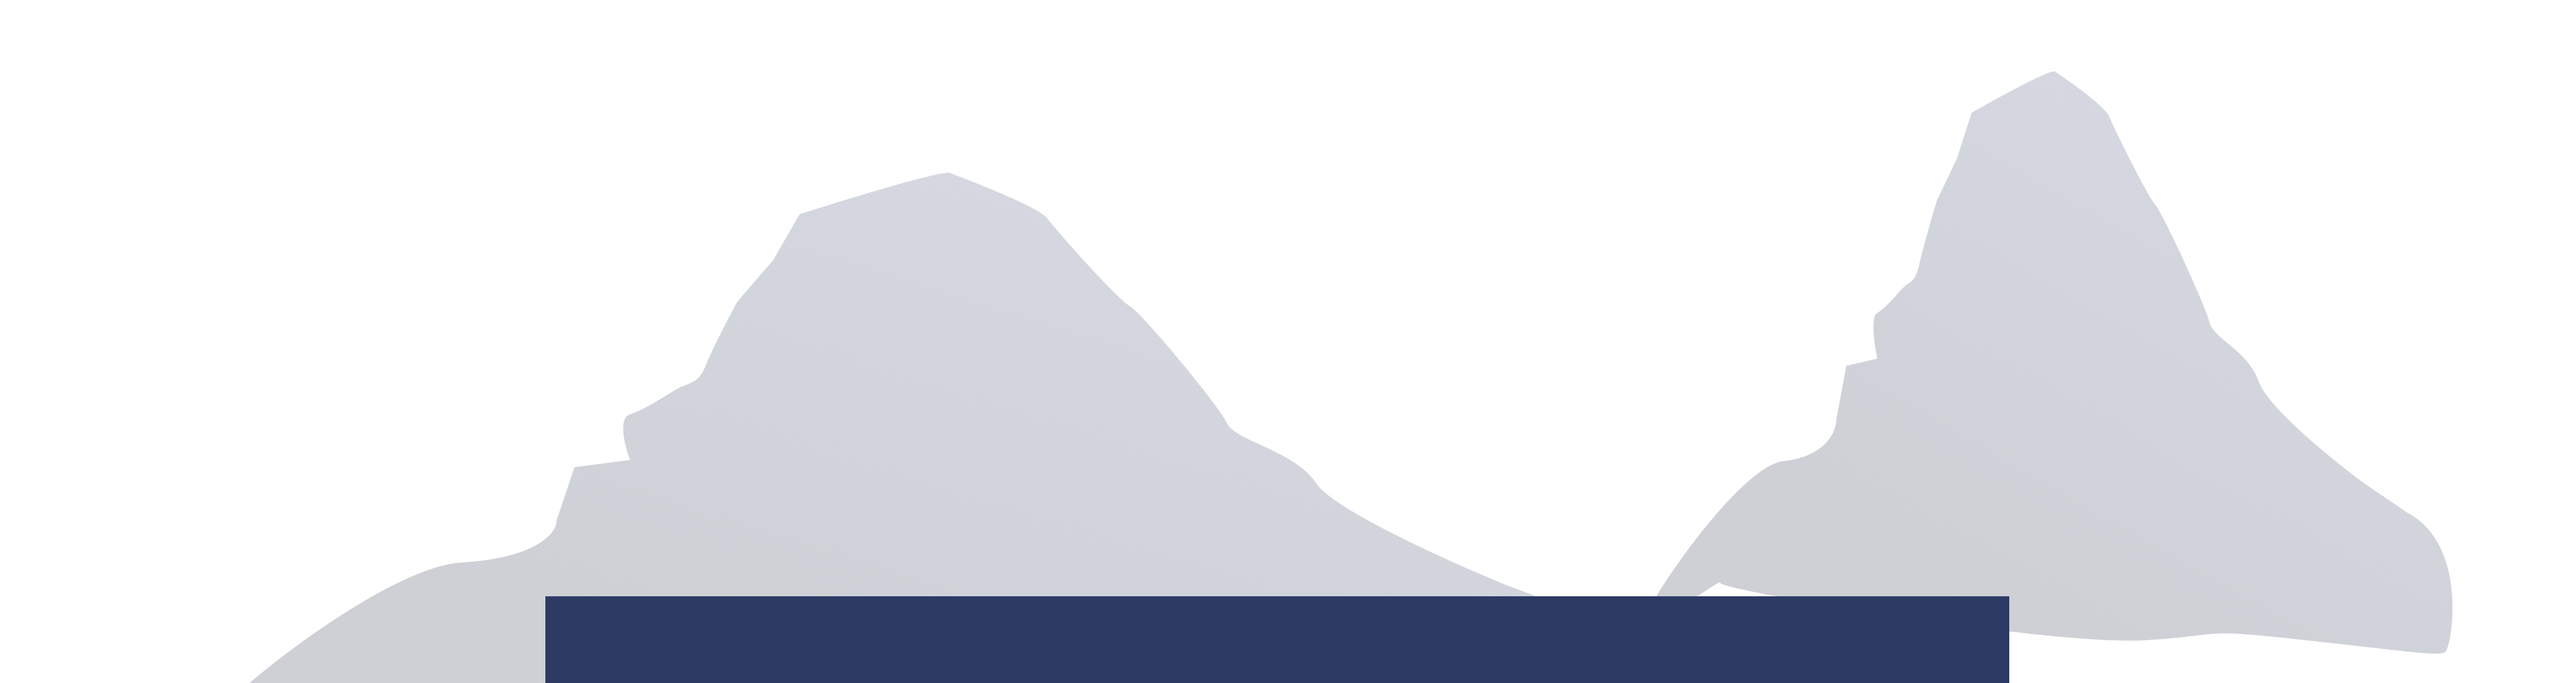
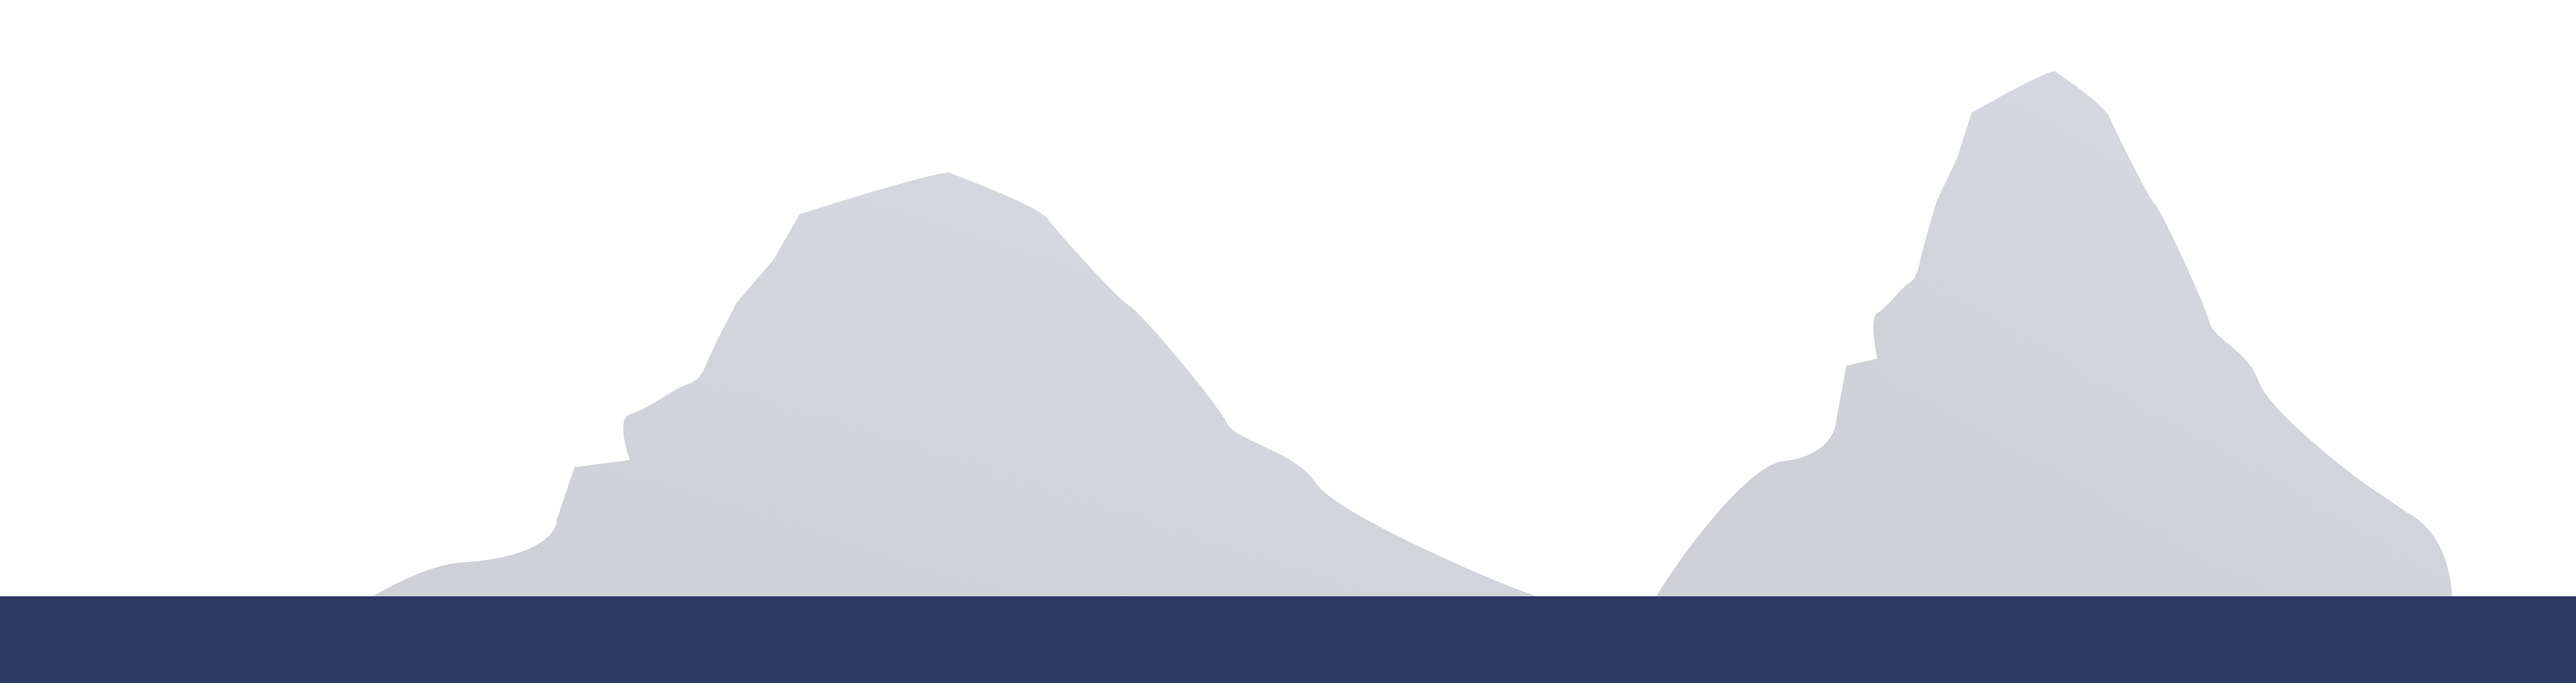
chapter 9

Changed region(s): [[0.7774, 0.875, 1.0, 1.0], [0.0, 0.875, 0.2177, 1.0], [0.653, 0.8438, 0.6841, 0.875]]

diff --git a/components/Chapter9.vue b/components/Chapter9.vue
@@ -1,114 +1,159 @@
 <template>
-    <section class="b--page-a__item b--chapter9-a" id="Scene9" ref="Scene9" v-if="chapter">
-        <div class="b--ss-a"> 
-            <div class="b--ss-a__ft-items">
-                <img class="b--ss-a__ft-items__parallax" v-lazy="require(`@/assets/img/chapter-9/front-parallax.png`)" 
-                alt="front"
-                />
-                <img class="b--ss-a__ft-items__parallax" v-lazy="require(`@/assets/img/chapter-9/middle-parallax.png`)" 
-                alt="middle"
-                />
-            </div>
-            <div class="b--ss-a__content">
-                <!-- first position element, card -->
-                <!-- move up from the scss -->
-                <div 
-                    class="b--chapter9-a__content"
-                    :class="'b--chapter9-a__content--' + `${this.lang}`"
-                >
-                    <v-card-f 
-                        :title="chapter.title" 
-                        :description="chapter.description"
-                        :customClass="'b--card-f--second b--card-f--'+ `${this.lang}`"
-                        cardACustomClass="b--card-a--second"
-                    />
-                </div>
-                <!-- second position element, info -->
-                <div class="b--chapter9-a__info">
-                    <v-info-chapter :info="chapter"/>
-                </div>
-            </div>
-            <div class="b--ss-a__bg-items">
-                <img class="b--ss-a__bg-items__back" @load="handleLoad"  @error="handleLoad" src="@/assets/img/chapter-9/back.png">        
-                <img class="b--ss-a__bg-items__parallax" @load="handleLoad"  @error="handleLoad" src="@/assets/img/chapter-9/back-parallax.png">        
-            </div>
+  <section
+    class="b--page-a__item b--chapter9-a"
+    id="Scene9"
+    ref="Scene9"
+    v-if="chapter"
+  >
+    <div class="b--ss-a">
+      <div class="b--ss-a__ft-items">
+        <img
+          class="b--ss-a__ft-items__parallax"
+          ref="parallax-ft"
+          v-lazy="require(`@/assets/img/chapter-9/front-parallax.png`)"
+          alt="front"
+         :style="{ left: '50%' }"
+        />
+        <img
+          class="b--ss-a__ft-items__parallax"
+          v-lazy="require(`@/assets/img/chapter-9/middle-parallax.png`)"
+          alt="middle"
+          ref="parallax-middle"
+          :style="{ left: '79.1%' }"
+        />
+      </div>
+      <div class="b--ss-a__content">
+        <!-- first position element, card -->
+        <!-- move up from the scss -->
+        <div
+          class="b--chapter9-a__content"
+          :class="'b--chapter9-a__content--' + `${this.lang}`"
+          ref="boxContent"
+          :style="{ left: '84.1%' }"
+        >
+          <v-card-f
+            :title="chapter.title"
+            :description="chapter.description"
+            :customClass="'b--card-f--second b--card-f--' + `${this.lang}`"
+            cardACustomClass="b--card-a--second"
+          />
         </div>
-    </section>
+        <!-- second position element, info -->
+        <div class="b--chapter9-a__info"
+        ref="quoteContent"
+          :style="{ left: '104.1%' }"
+        >
+          <v-info-chapter :info="chapter" />
+        </div>
+      </div>
+      <div class="b--ss-a__bg-items">
+        <img
+          class="b--ss-a__bg-items__back"
+          @load="handleLoad"
+          @error="handleLoad"
+          src="@/assets/img/chapter-9/back.png"
+        />
+        <img
+          class="b--ss-a__bg-items__parallax"
+          ref="parallax-bg"
+          v-lazy="require(`@/assets/img/chapter-9/back-parallax.png`)"
+          alt="back-parallax"
+          :style="{ left: '20%' }"
+        />
+      </div>
+    </div>
+  </section>
 </template>
 
 <script>
-import { groq } from '@nuxtjs/sanity';
+import { groq } from '@nuxtjs/sanity'
 import { SanityContent } from '@nuxtjs/sanity/dist/components/sanity-content'
-import CardF from '@/components/cards/CardF';
-import InfoChapter from '@/components/infochapter/Infochapter';
+import CardF from '@/components/cards/CardF'
+import InfoChapter from '@/components/infochapter/Infochapter'
 
-// import Parallax from '@/motion/Parallax';
-import Vue from 'vue';
-import Parallax from '@/mixins/Parallax.js';
-import Animation from '@/mixins/Animation.js';
+import Vue from 'vue'
+import Parallax from '@/mixins/Parallax.js'
+import Animation from '@/mixins/Animation.js'
 Vue.use(Parallax)
+Vue.use(Animation)
 
 export default {
-    mixins: ['infoWindow',Parallax,Animation],
-    components:{
-        SanityContent,
-        'v-card-f':CardF,
-        'v-info-chapter' : InfoChapter,
-    },
-    data:()=>{
-		return{
-            totalContent: 2,
-			contentLoaded : 0,
-            chapter: null,
-            infoWindowStatus: true,
-		}
-	},
-    props: ['scrollTween'],
-    methods: {
-        async getContent(){
-            this.lang = (this.$route.name == 'index') ? 'en' : this.$route.name;
-            const query_content = groq`*[_type == "chapterNine"][0]{
+  mixins: ['infoWindow', Parallax, Animation],
+  components: {
+    SanityContent,
+    'v-card-f': CardF,
+    'v-info-chapter': InfoChapter,
+  },
+  data: () => {
+    return {
+      totalContent: 2,
+      contentLoaded: 0,
+      chapter: null,
+      infoWindowStatus: true,
+    }
+  },
+  props: ['scrollTween'],
+  methods: {
+    async getContent() {
+      this.lang = this.$route.name == 'index' ? 'en' : this.$route.name
+      const query_content = groq`*[_type == "chapterNine"][0]{
                 "title" : title['${this.lang}'],
                 "description" : description['${this.lang}'],
                 
                 "tooltip_label" : tooltip_label['${this.lang}'],
                 "tooltip_link" : tooltip_link['${this.lang}'],
                 "tooltip_date" : tooltip_date['${this.lang}']
-            }`;
-            this.chapter = await this.$sanity.fetch(query_content);
-            this.contentLoaded++;
-        },
-        handleLoad(){
-            this.contentLoaded++;
-        },
-        animate(){
-            this.$nextTick(() => {
-                this.startAnimation({
-                    sceneID : 9,
-                    scrub:0,
-                    scrollTween : this.scrollTween
-                })
-            })
-        }
+            }`
+      this.chapter = await this.$sanity.fetch(query_content)
+      this.contentLoaded++
     },
-    watch: {
-        contentLoaded(newValue, oldValue) {
-            if(newValue == this.totalContent ) {
-                // emits on in Story.vue
-                $nuxt.$emit('assetLoaded');
-            }
-        },
-        scrollTween(newValue, oldValue){
-            if (newValue ) {
-                this.animate();
-            } 
-        }
+    handleLoad() {
+      this.contentLoaded++
     },
-    created(){
-        if(process.client){
-            this.getContent();
-        }
+    AsambleParallaxObjs() {
+      var motion = [
+        { obj: this.$refs['parallax-bg'], intensity: 4 },
+        { obj: this.$refs['parallax-ft'], intensity: 11 },
+        { obj: this.$refs['parallax-middle'], intensity: 14 },
+        { obj: this.$refs['boxContent'], intensity: 11 },
+        { obj: this.$refs['quoteContent'], intensity: 11 },
+      ]
+      motion.forEach((item) => {
+        this.parallaxMove({
+          el: item.obj,
+          intensity: item.intensity,
+          duration: this.$refs['Scene9'].offsetWidth,
+          containerAnimation: this.scrollTween,
+          scrub: 1,
+        })
+      })
+    },
+  },
+  watch: {
+    contentLoaded(newValue, oldValue) {
+      if (newValue == this.totalContent) {
+        // emits on in Story.vue
+        $nuxt.$emit('assetLoaded')
+      }
+    },
+    scrollTween(newValue, oldValue) {
+      if (newValue) {
+        // motion frontend and backend elements
+        this.AsambleParallaxObjs()
+        //mixin function
+        this.startAnimation({
+          sceneID: 9,
+          scrub: 0,
+          scrollTween: this.scrollTween,
+        })
+      }
+    },
+  },
+  created() {
+    if (process.client) {
+      this.getContent()
     }
+  },
 }
 </script>
 
